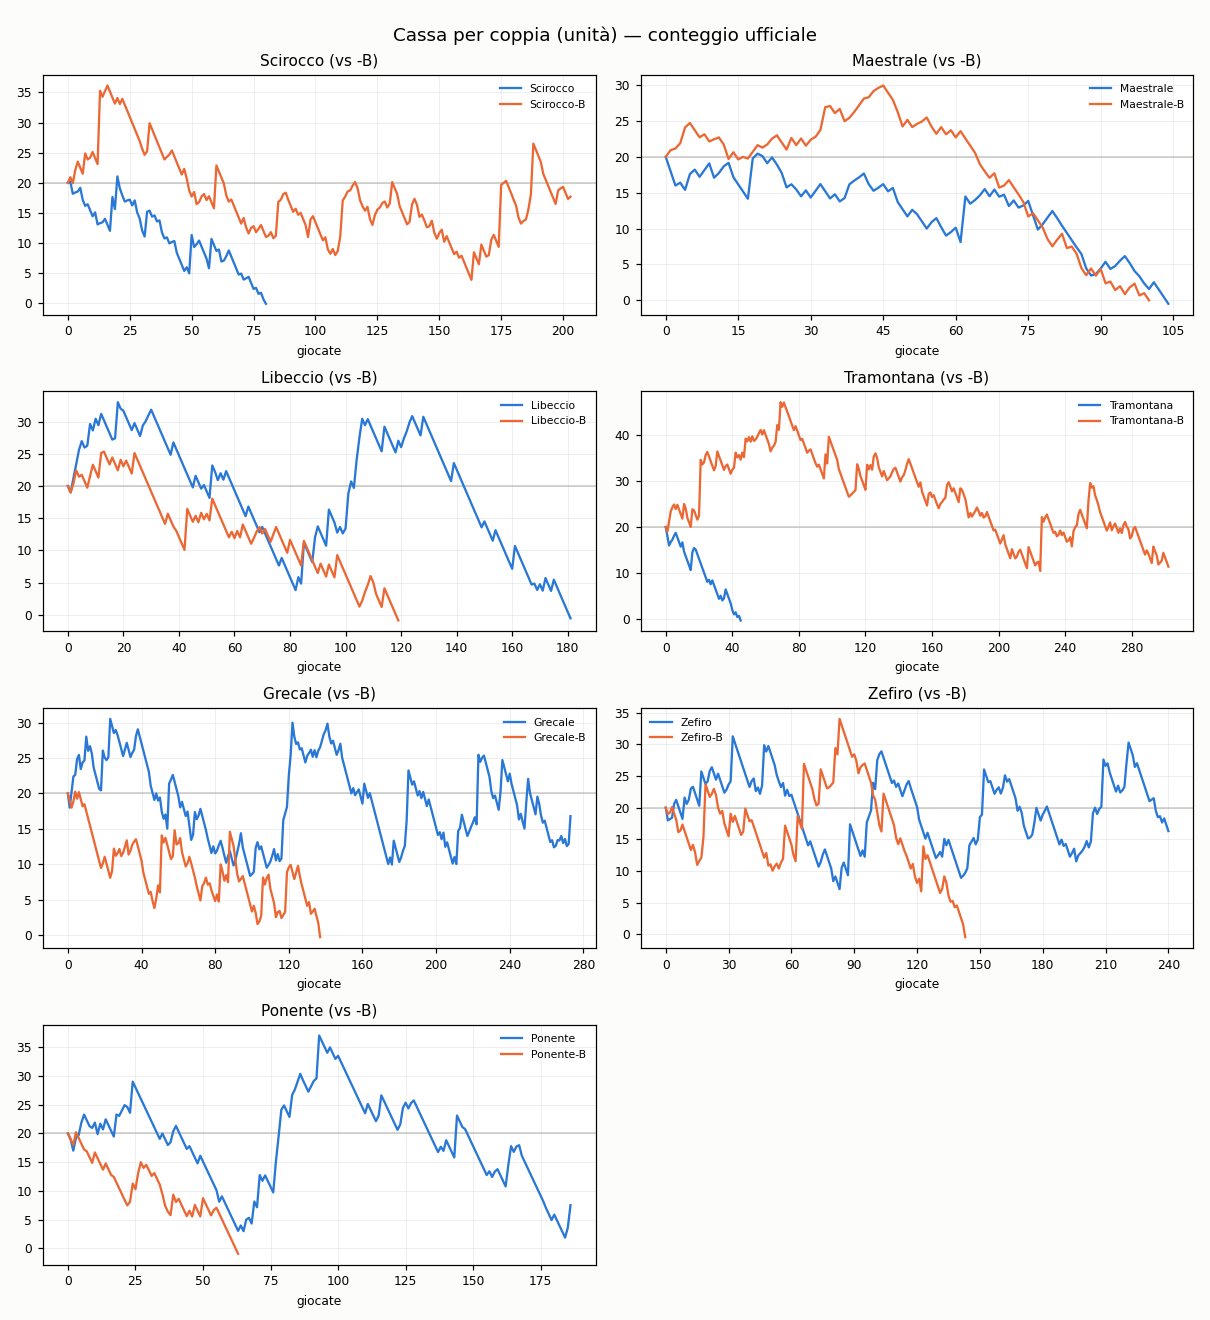
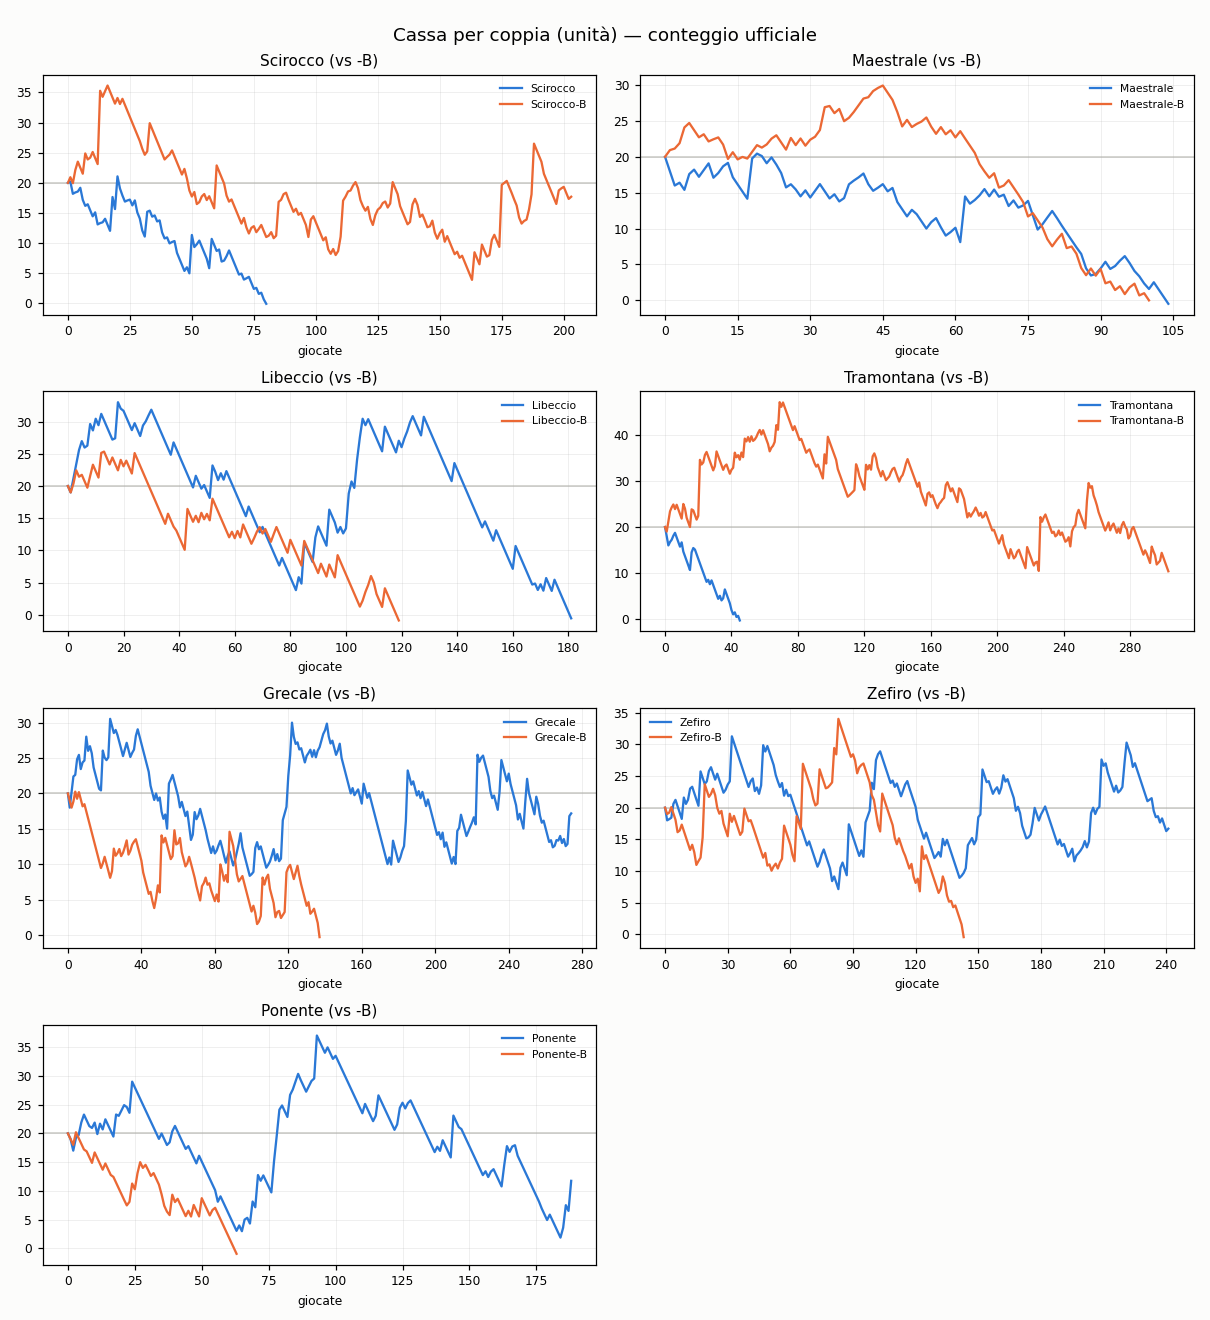
aggiornamento 2026-07-25 12:41 UTC

diff --git a/README.md b/README.md
@@ -37,9 +37,9 @@ scala in unità). Non indichiamo quale.
 
 ## Grafici
 
-![Coppie: dati completi vs ridotti](https://raw.githubusercontent.com/Kitem19/ippica-track-record/main/charts/equity_pairs.png?v=74f3e80a)
+![Coppie: dati completi vs ridotti](https://raw.githubusercontent.com/Kitem19/ippica-track-record/main/charts/equity_pairs.png?v=75e6c015)
 
-![Delta per coppia](https://raw.githubusercontent.com/Kitem19/ippica-track-record/main/charts/coppie_delta.png?v=6126445e)
+![Delta per coppia](https://raw.githubusercontent.com/Kitem19/ippica-track-record/main/charts/coppie_delta.png?v=c2ff21ef)
 
 ### Come leggere i grafici
 
@@ -59,31 +59,31 @@ _Poche giornate: numeri ancora rumorosi, si conclude a fine fase (31/7)._
 - **Scirocco**: dati ridotti avanti di 17,8u — qui gli extra non aiutano
 - **Maestrale**: in sostanziale pareggio — troppo presto per dire
 - **Libeccio**: in sostanziale pareggio — troppo presto per dire
-- **Tramontana**: dati ridotti avanti di 11,7u — qui gli extra non aiutano
-- **Grecale**: dati completi avanti di 17,1u
-- **Zefiro**: dati completi avanti di 16,8u
-- **Ponente**: dati completi avanti di 8,5u
+- **Tramontana**: dati ridotti avanti di 10,7u — qui gli extra non aiutano
+- **Grecale**: dati completi avanti di 17,4u
+- **Zefiro**: dati completi avanti di 17,1u
+- **Ponente**: dati completi avanti di 12,7u
 
 ## Classifica (conteggio ufficiale)
 
 | Sistema | Cassa (u) | P/L (u) | Selezioni | Escluse | Stato |
 |---|---|---|---|---|---|
 | Scirocco-B | 17,7 | -2,3 | 203 | 0 | 🟢 |
-| Grecale | 16,8 | -3,2 | 273 | 4 | 🟢 |
-| Zefiro | 16,3 | -3,7 | 240 | 5 | 🟢 |
-| Tramontana-B | 11,4 | -8,6 | 302 | 0 | 🟢 |
-| Ponente | 7,5 | -12,5 | 186 | 28 | 🟢 |
-| Maestrale-B | 0,0 | -20,0 | 100 | 201 | 🛑 |
-| Scirocco | 0,0 | -20,1 | 80 | 212 | 🛑 |
-| Grecale-B | 0,0 | -20,2 | 137 | 143 | 🛑 |
-| Tramontana | 0,0 | -20,3 | 45 | 274 | 🛑 |
-| Zefiro-B | 0,0 | -20,5 | 143 | 50 | 🛑 |
-| Maestrale | 0,0 | -20,5 | 104 | 223 | 🛑 |
-| Libeccio | 0,0 | -20,6 | 181 | 132 | 🛑 |
-| Libeccio-B | 0,0 | -20,9 | 119 | 146 | 🛑 |
-| Ponente-B | 0,0 | -21,0 | 63 | 70 | 🛑 |
+| Grecale | 17,2 | -2,8 | 274 | 4 | 🟢 |
+| Zefiro | 16,7 | -3,3 | 241 | 5 | 🟢 |
+| Ponente | 11,7 | -8,3 | 188 | 28 | 🟢 |
+| Tramontana-B | 10,4 | -9,6 | 303 | 0 | 🟢 |
+| Maestrale-B | 0,0 | -20,0 | 100 | 203 | 🛑 |
+| Scirocco | 0,0 | -20,1 | 80 | 214 | 🛑 |
+| Grecale-B | 0,0 | -20,2 | 137 | 144 | 🛑 |
+| Tramontana | 0,0 | -20,3 | 45 | 276 | 🛑 |
+| Zefiro-B | 0,0 | -20,5 | 143 | 51 | 🛑 |
+| Maestrale | 0,0 | -20,5 | 104 | 225 | 🛑 |
+| Libeccio | 0,0 | -20,6 | 181 | 134 | 🛑 |
+| Libeccio-B | 0,0 | -20,9 | 119 | 148 | 🛑 |
+| Ponente-B | 0,0 | -21,0 | 63 | 71 | 🛑 |
 
-_Aggiornato: 25/07 14:36_
+_Aggiornato: 25/07 14:41_
 ---
 *Nessuna delle informazioni qui pubblicate costituisce consiglio di gioco.
 Il gioco può causare dipendenza — 18+.*
